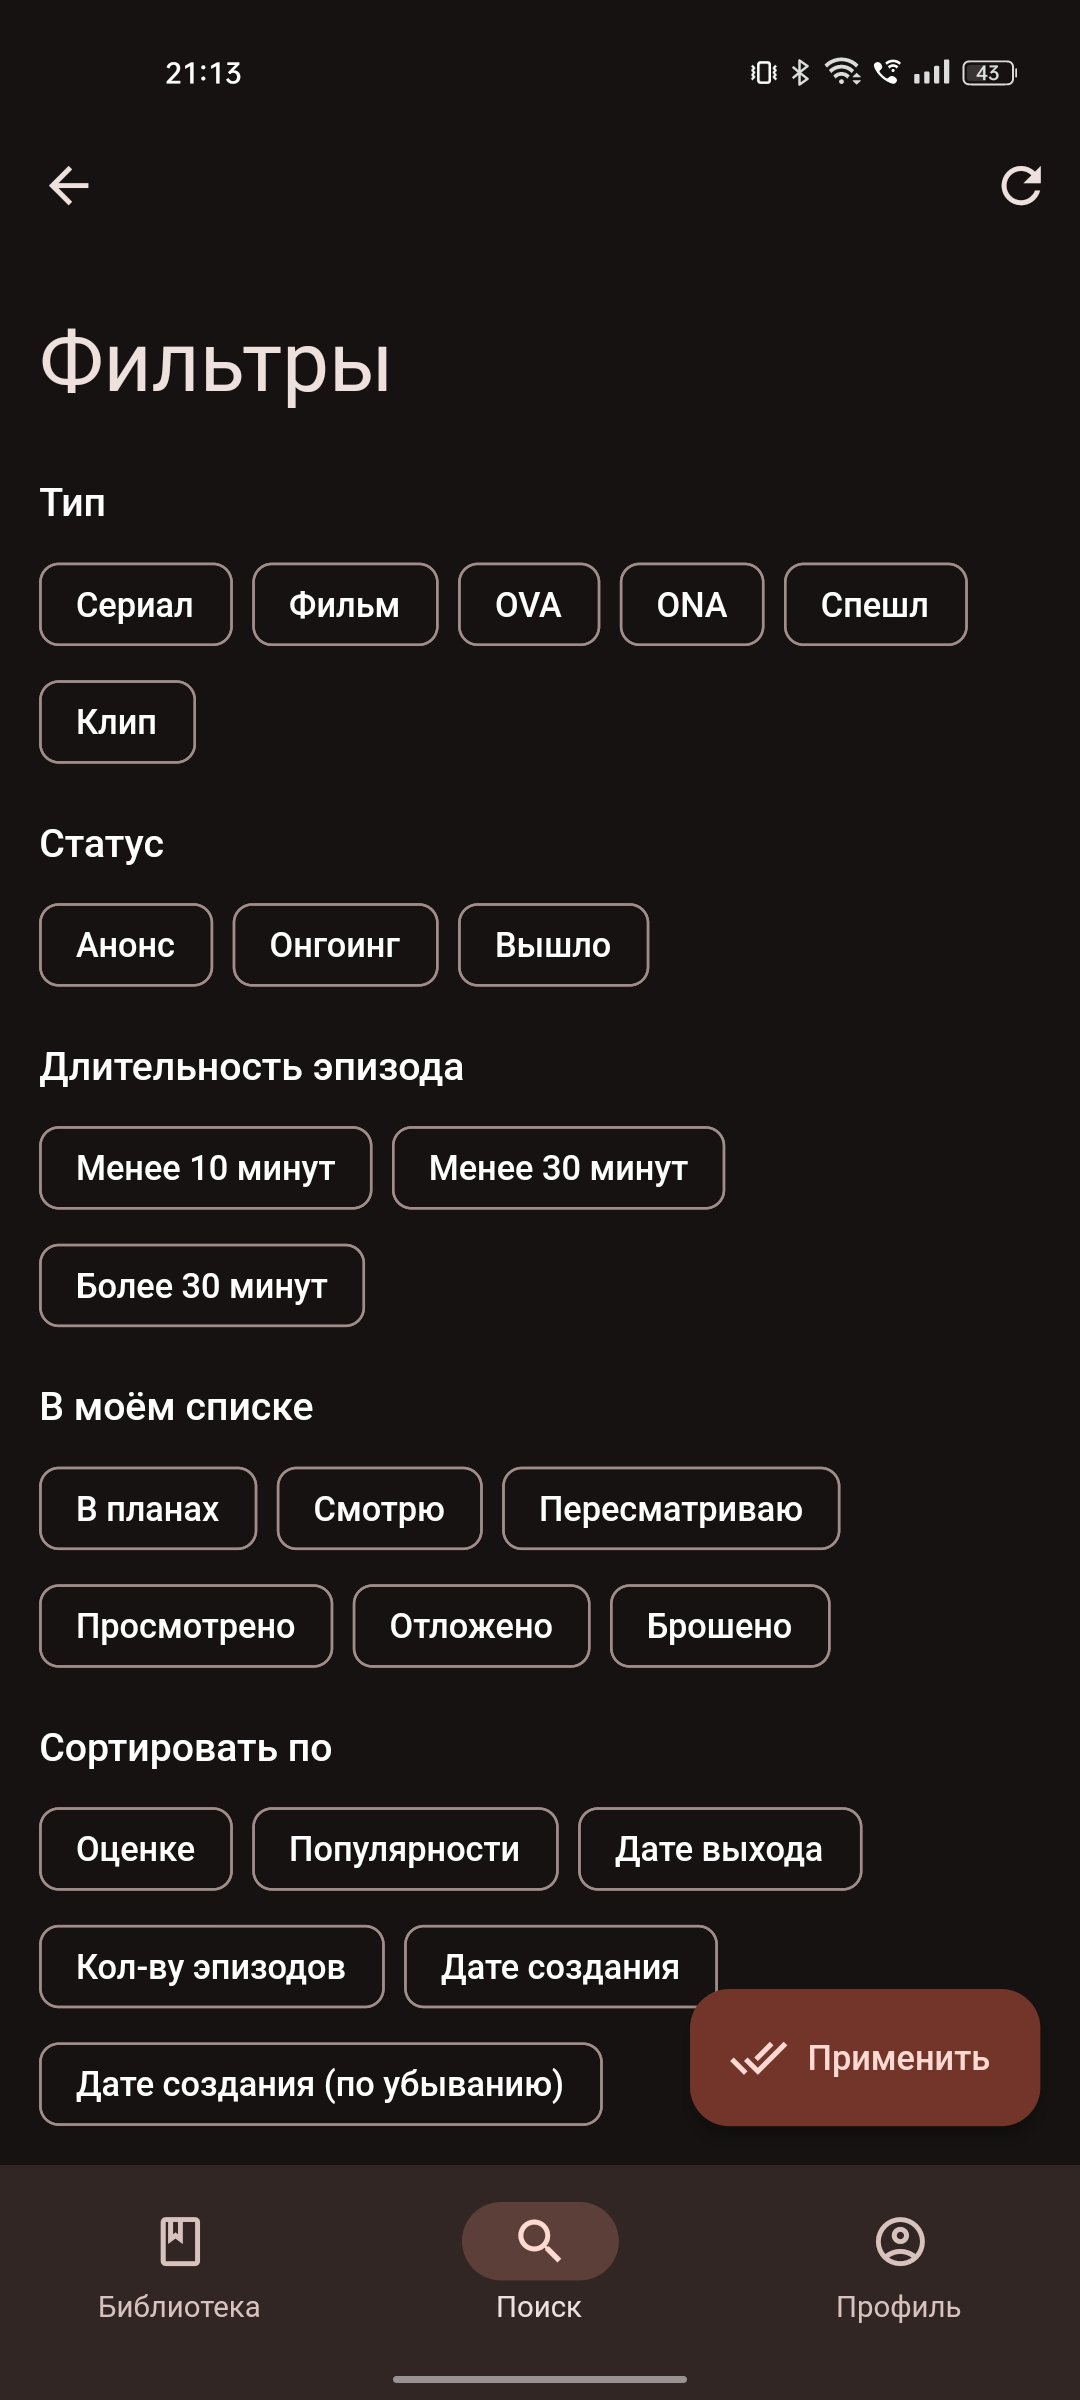
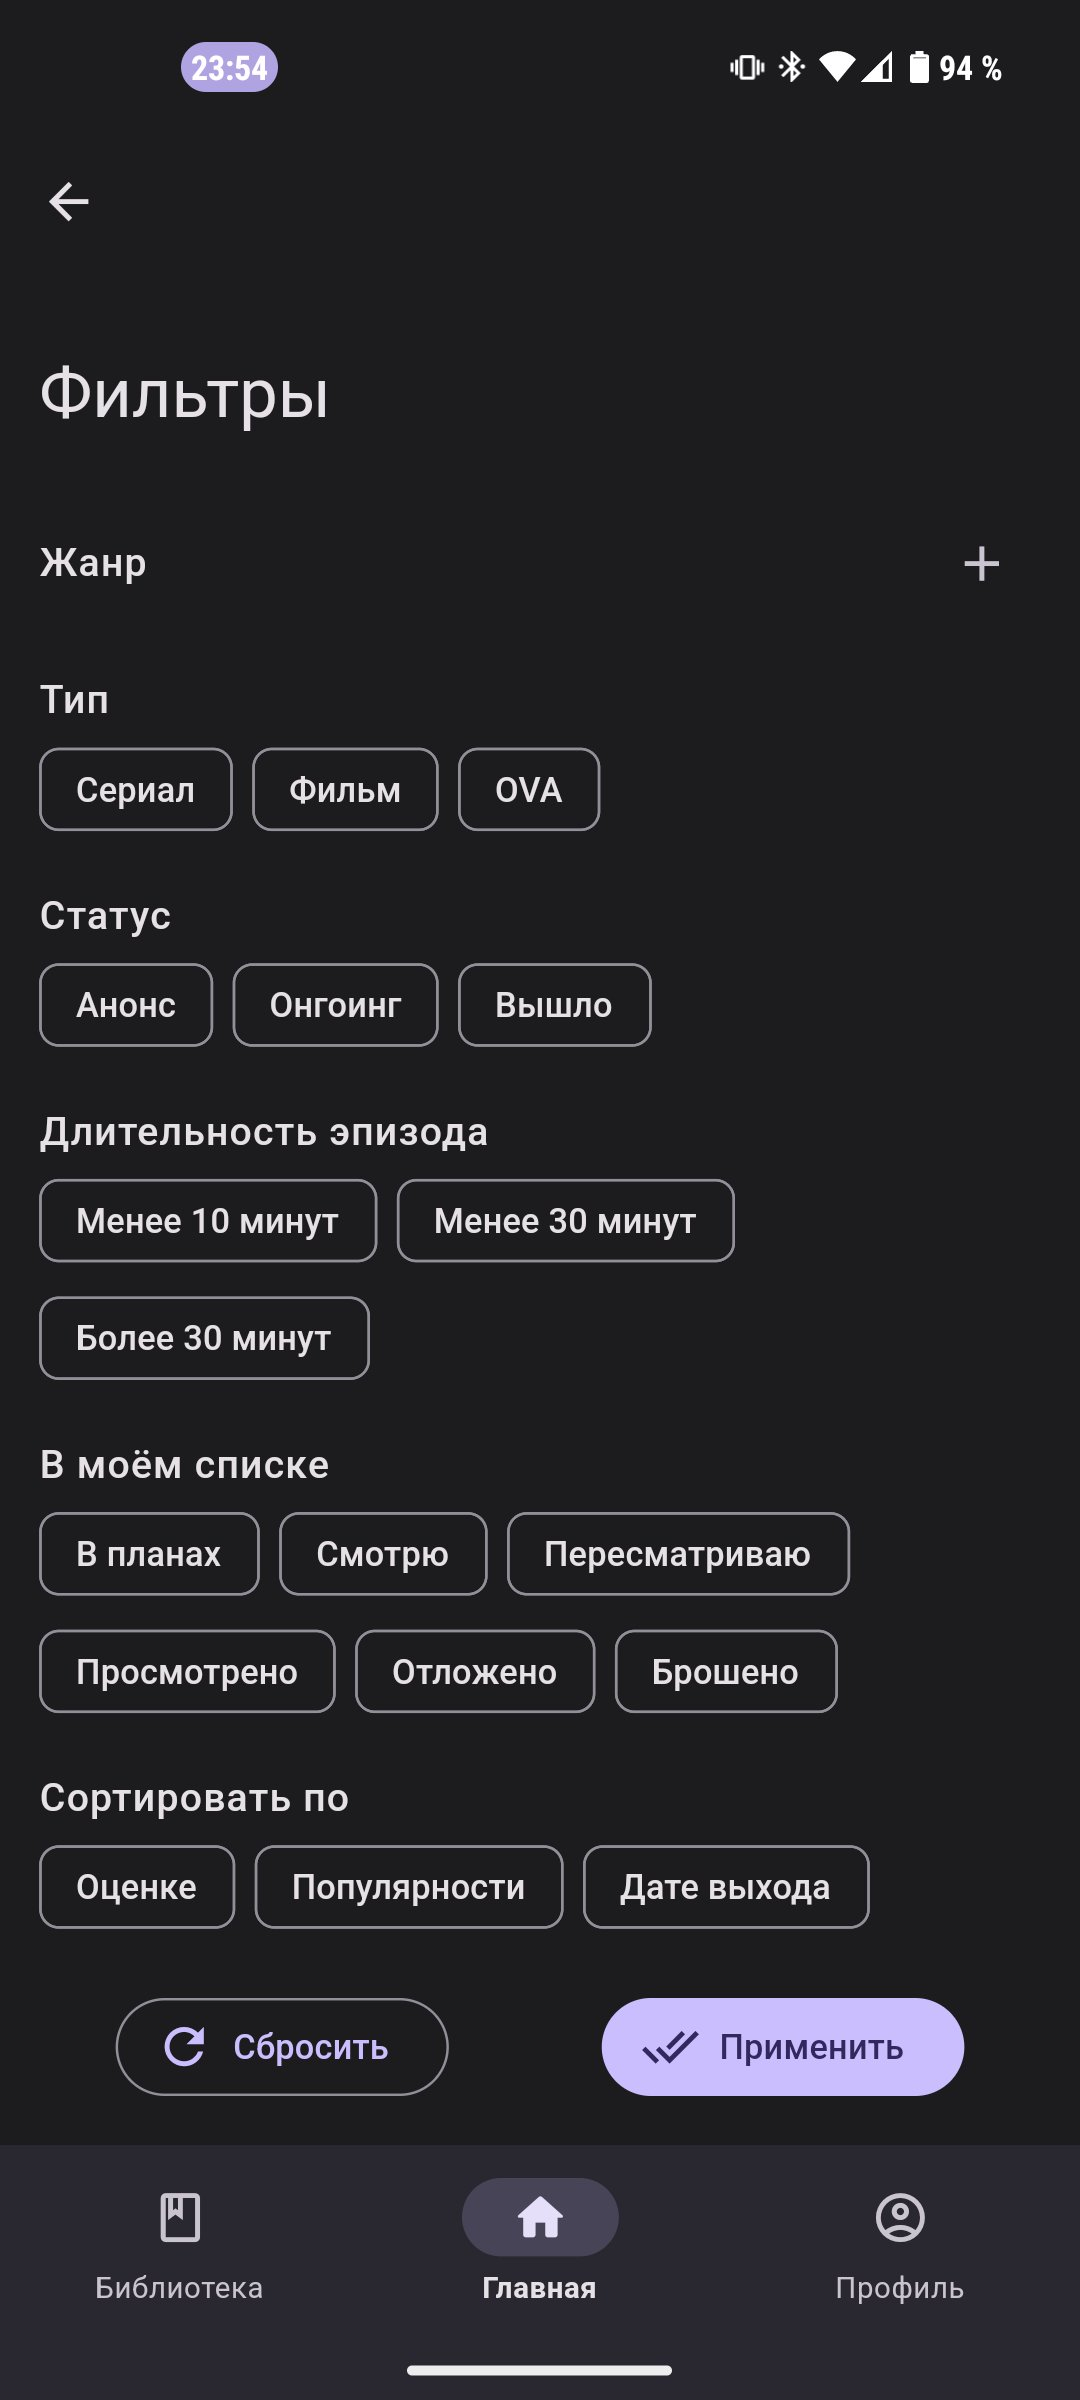
update screenshots

diff --git a/README.md b/README.md
@@ -15,9 +15,9 @@
 
 #### Android
 
-| <img src="screenshots/scr-andr-library.jpg?raw=true" width="200"/> | <img src="screenshots/scr-andr-anime_info.jpg?raw=true" width="200"/> | <img src="screenshots/scr-andr-search-filters.jpg?raw=true" width="200"/> |<img src="screenshots/scr-andr-local_history.jpg" width="200"/> |
+| <img src="screenshots/scr-andr-library.jpg?raw=true" width="200"/> | <img src="screenshots/scr-andr-anime_info.jpg?raw=true" width="200"/> | <img src="screenshots/scr-andr-search-filters.jpg?raw=true" width="200"/> |<img src="screenshots/scr-andr-exp_page.jpg" width="200"/> |
 | :--: | :--: | :--: | :--: |
-|Библиотека|Аниме|Фильтры поиска|Локальная история|
+|Библиотека|Аниме|Фильтры поиска|Главная|
 
 #### Windows
 soon
